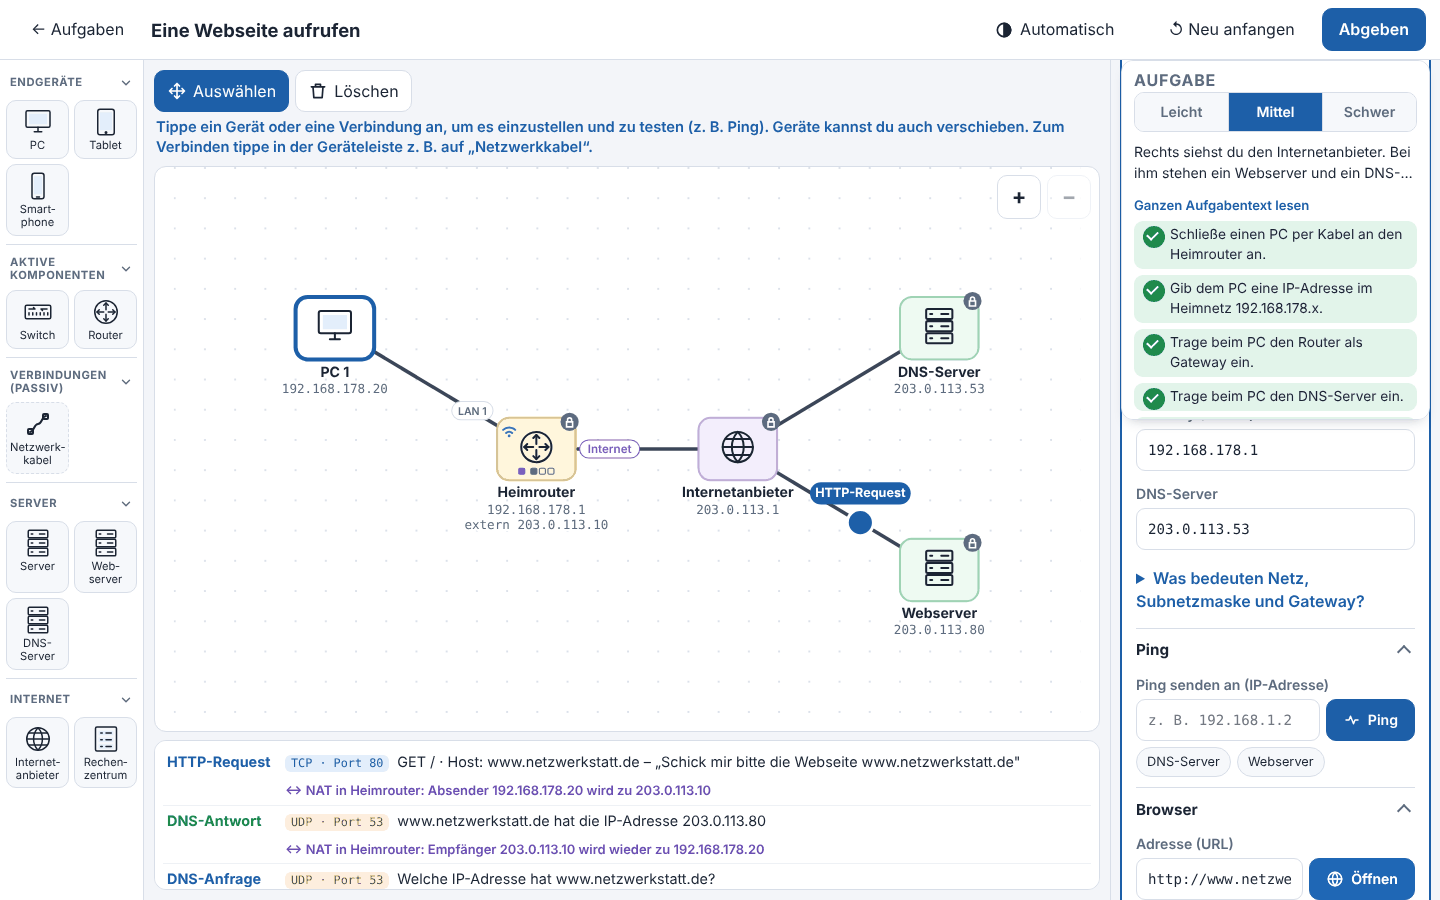
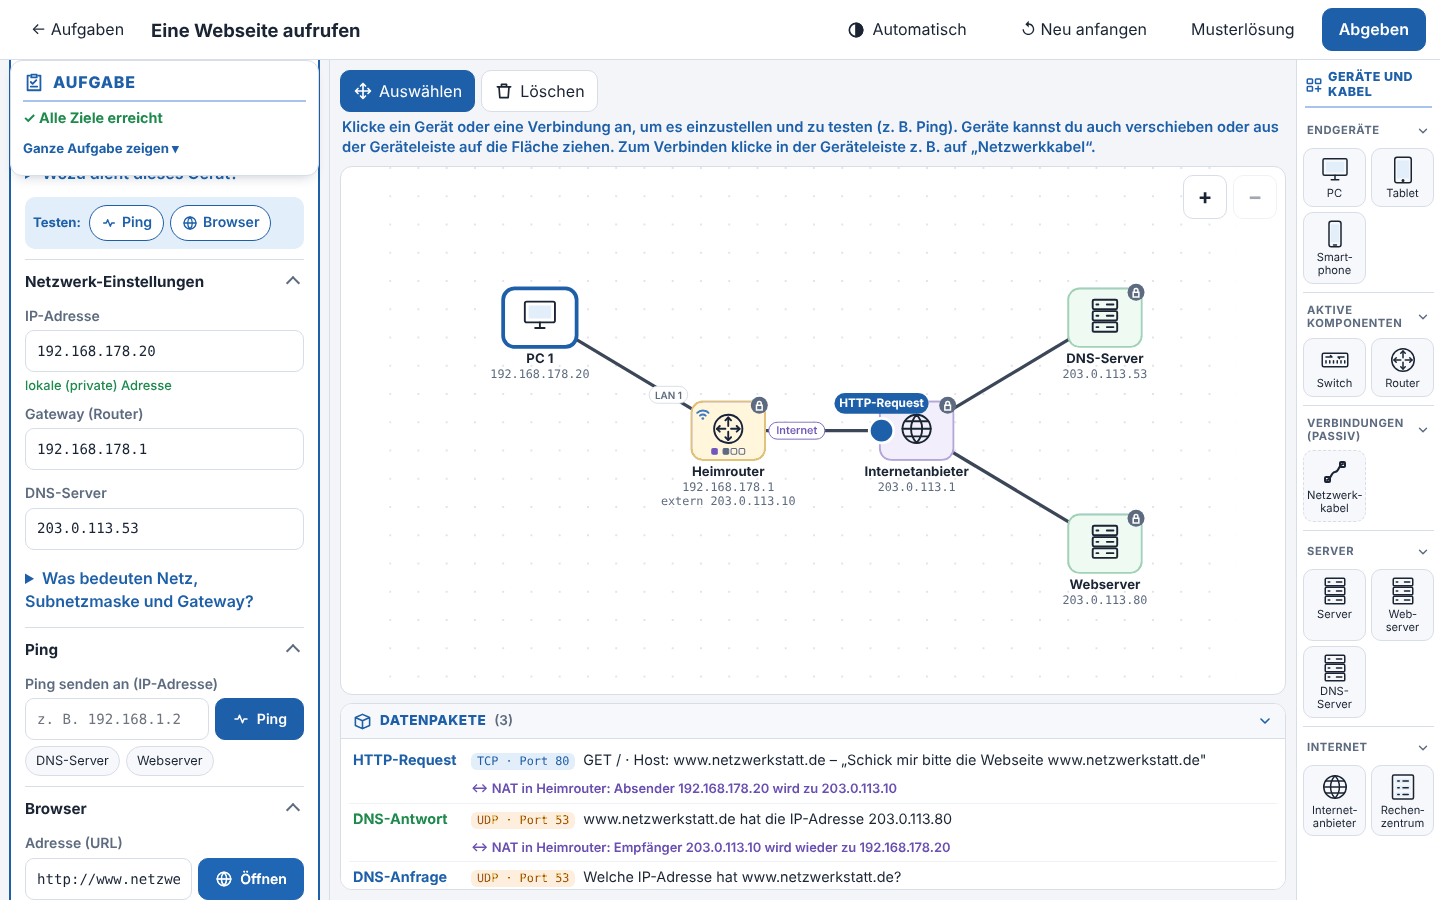
README: Bild und Bildtext an die neue Aufteilung anpassen

diff --git a/README.md b/README.md
@@ -6,9 +6,9 @@ Die NetzWerkstatt ist für den Informatikunterricht der Sekundarstufe I gedacht.
 
 Das Programm läuft auf dem Rechner der Lehrkraft (Windows, Linux oder Mac) und muss nicht installiert werden. Die Schülerinnen und Schüler brauchen nur einen Browser, am PC oder auf dem iPad.
 
-![Aufgabe „Eine Webseite aufrufen“: Der PC ist über den Heimrouter mit dem Internetanbieter verbunden, ein HTTP-Request ist auf dem Weg zum Webserver. Unten stehen die Pakete mit Protokoll und Port, rechts die Aufgabe mit abgehakten Zielen und die Einstellungen des PCs.](docs/bilder/webseite-aufrufen.png)
+![Aufgabe „Eine Webseite aufrufen“: Der PC ist über den Heimrouter mit dem Internetanbieter verbunden, ein HTTP-Request ist auf dem Weg zum Webserver. Unten stehen die Pakete mit Protokoll und Port, links die Aufgabe (alle Ziele erreicht) und darunter die Einstellungen des PCs, rechts die Geräteleiste.](docs/bilder/webseite-aufrufen.png)
 
-*Bauen und Testen auf einer Fläche: Links die Geräteleiste, in der Mitte das Netz mit den laufenden Datenpaketen, darunter das Protokoll (hier DNS-Anfrage, DNS-Antwort und HTTP-Request mit NAT), rechts die Aufgabe und die Einstellungen des angetippten Geräts.*
+*Bauen und Testen auf einer Fläche: Links die Aufgabe und die Einstellungen des angetippten Geräts, in der Mitte das Netz mit den laufenden Datenpaketen, darunter die Datenpakete (hier DNS-Anfrage, DNS-Antwort und HTTP-Request mit NAT), rechts die Geräteleiste.*
 
 ## Inhalt
 
